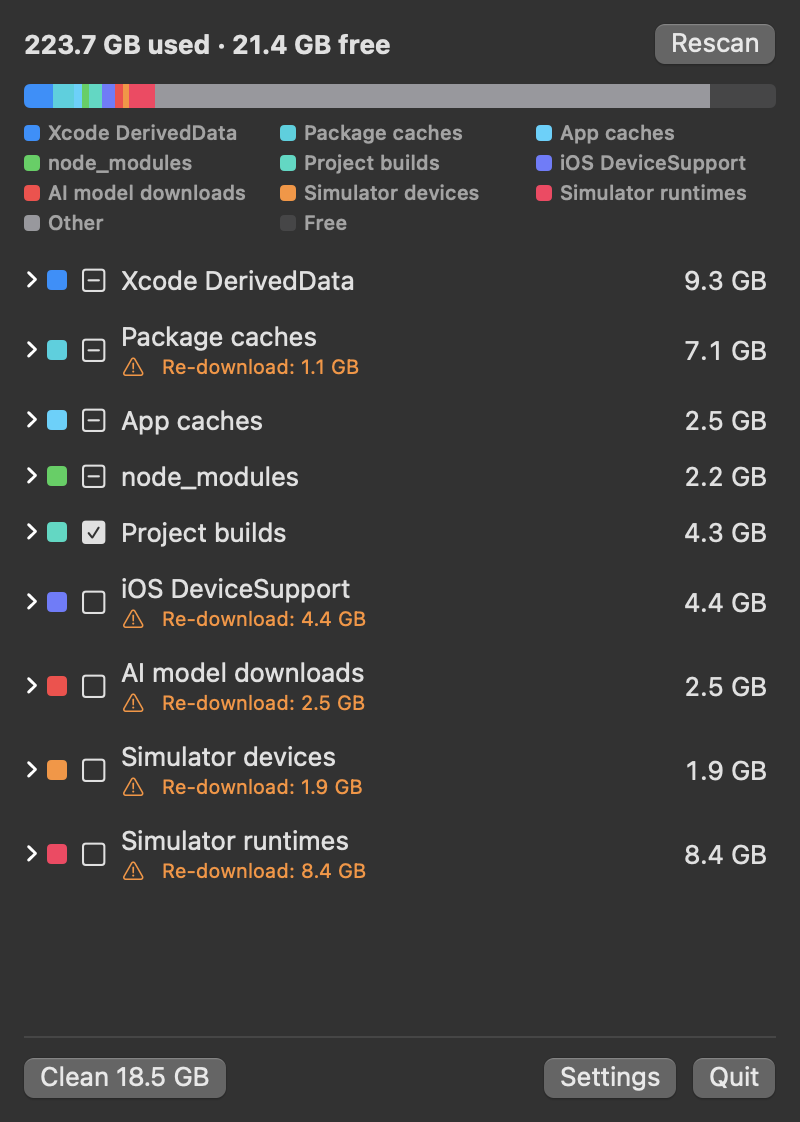
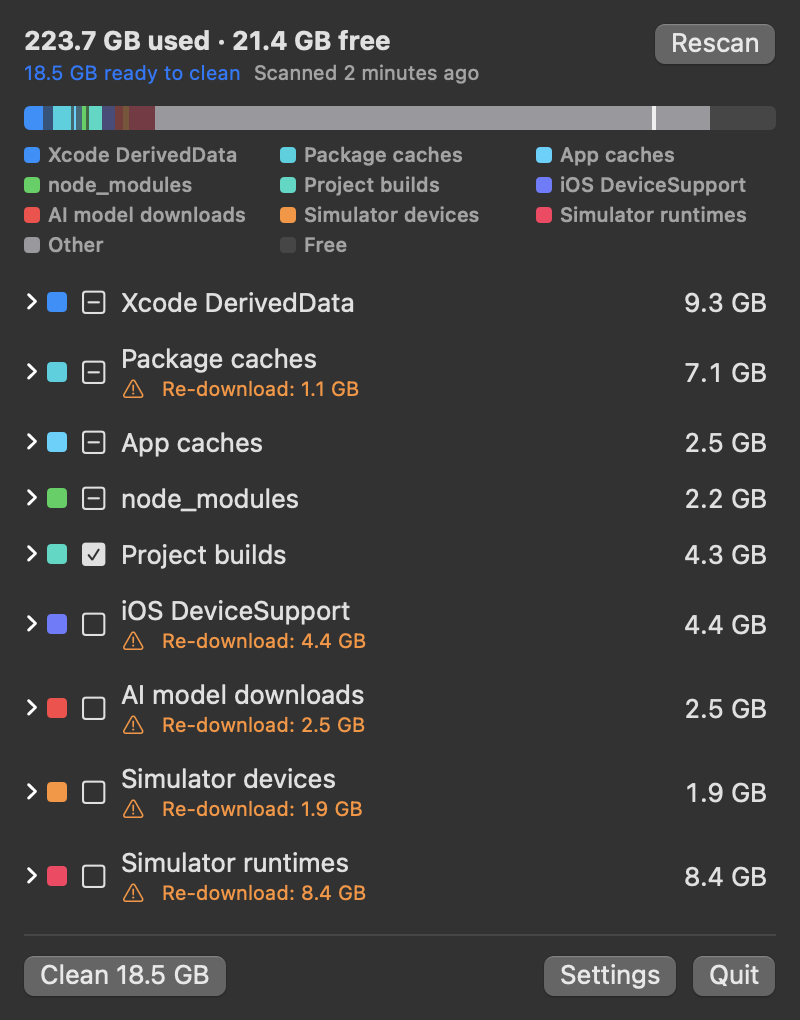
feat: fit-to-content panel, Reveal in Finder, last-scanned time, ready-to-clean bar, delete from Trash now

diff --git a/Sources/DevBroomCore/Cleaner.swift b/Sources/DevBroomCore/Cleaner.swift
@@ -9,6 +9,25 @@ public struct CleanReport: Sendable {
     public var trashedBytes: Int64 = 0
     public var deletedBytes: Int64 = 0
     public var failures: [(name: String, reason: String)] = []
+    /// Where each trashed item ended up, so "Delete from Trash now" removes exactly these and nothing else.
+    public var trashedItems: [(url: URL, bytes: Int64)] = []
+    public init() {}
+}
+
+/// Permanently deletes items DevBroom itself moved to the Trash. Anything not directly inside a Trash folder
+/// (`~/.Trash/x` or `/Volumes/V/.Trashes/<uid>/x`) is refused.
+public func deleteFromTrash(_ items: [(url: URL, bytes: Int64)]) -> (bytes: Int64, failures: [String]) {
+    var bytes: Int64 = 0, failures: [String] = []
+    for (url, size) in items {
+        let parent = url.standardizedFileURL.deletingLastPathComponent()
+        guard parent.lastPathComponent == ".Trash" || parent.deletingLastPathComponent().lastPathComponent == ".Trashes" else {
+            failures.append("\(url.lastPathComponent): not in the Trash"); continue
+        }
+        guard FileManager.default.fileExists(atPath: url.path) else { continue }  // already emptied
+        do { try FileManager.default.removeItem(at: url); bytes += size }
+        catch { failures.append("\(url.lastPathComponent): \(error.localizedDescription)") }
+    }
+    return (bytes, failures)
 }
 
 /// The only code that removes anything: Trash for files (guard-checked), vendor tools for permanent deletes.
@@ -16,18 +35,24 @@ public struct Cleaner: Sendable {
     private let removalGuard: RemovalGuard
     private let runner: CommandRunner
     private let home: URL
-    private let trash: @Sendable (URL) throws -> Void
+    /// Moves an item to the Trash and returns where it ended up (nil if unknown).
+    private let trash: @Sendable (URL) throws -> URL?
 
     public init(removalGuard: RemovalGuard, runner: CommandRunner, home: URL,
-                trash: @escaping @Sendable (URL) throws -> Void = { try FileManager.default.trashItem(at: $0, resultingItemURL: nil) }) {
+                trash: @escaping @Sendable (URL) throws -> URL? = { url in
+                    var out: NSURL?
+                    try FileManager.default.trashItem(at: url, resultingItemURL: &out)
+                    return out as URL?
+                }) {
         self.removalGuard = removalGuard; self.runner = runner; self.home = home; self.trash = trash
     }
 
     public func clean(_ items: [CleanItem], progress: (Int, Int) -> Void) async -> CleanReport {
         var report = CleanReport()
         for (i, item) in items.enumerated() {
-            let outcome = await remove(item)
+            let (outcome, landed) = await remove(item)
             report.outcomes[item.id] = outcome
+            if let landed { report.trashedItems.append((landed, item.sizeBytes)) }
             switch outcome {
             case .trashed(let b): report.trashedBytes += b
             case .deleted(let b): report.deletedBytes += b
@@ -39,20 +64,21 @@ public struct Cleaner: Sendable {
         return report
     }
 
-    private func remove(_ item: CleanItem) async -> ItemOutcome {
+    /// The outcome, plus where a trashed item ended up.
+    private func remove(_ item: CleanItem) async -> (ItemOutcome, URL?) {
         switch item.method {
         case .trash(let url):
-            guard FileManager.default.fileExists(atPath: url.path) else { return .alreadyGone }
-            guard removalGuard.allows(url) else { return .failed("Refused by safety guard") }
-            do { try trash(url); return .trashed(bytes: item.sizeBytes) }
-            catch { return .failed(error.localizedDescription) }
+            guard FileManager.default.fileExists(atPath: url.path) else { return (.alreadyGone, nil) }
+            guard removalGuard.allows(url) else { return (.failed("Refused by safety guard"), nil) }
+            do { return (.trashed(bytes: item.sizeBytes), try trash(url)) }
+            catch { return (.failed(error.localizedDescription), nil) }
         case .simctlDevice(let udid):
-            return await run(ToolLocator.xcrun, ["simctl", "delete", udid], item)
+            return (await run(ToolLocator.xcrun, ["simctl", "delete", udid], item), nil)
         case .simctlRuntime(let id):
-            return await run(ToolLocator.xcrun, ["simctl", "runtime", "delete", id], item)
+            return (await run(ToolLocator.xcrun, ["simctl", "runtime", "delete", id], item), nil)
         case .dockerPrune:
-            guard let docker = ToolLocator.docker(home: home) else { return .failed("Docker not found") }
-            return await run(docker, ["system", "prune", "-a", "-f"], item)
+            guard let docker = ToolLocator.docker(home: home) else { return (.failed("Docker not found"), nil) }
+            return (await run(docker, ["system", "prune", "-a", "-f"], item), nil)
         }
     }
 

diff --git a/Sources/DevBroom/PopoverView.swift b/Sources/DevBroom/PopoverView.swift
@@ -25,6 +25,8 @@ struct PopoverView: View {
     let model: AppModel
     /// Snapshot taken when the summary opens (spec section 4 rule 4): exactly these items are shown and cleaned.
     @State private var cleanSheet: (items: [CleanItem], recent: [String])?
+    /// Height of the category list's content, so the panel fits it (up to a maximum) instead of a fixed size.
+    @State private var listHeight: CGFloat = 0
 
     var body: some View {
         // VStack, not Group: Group would forward onAppear/onDisappear to each swapped child.
@@ -53,8 +55,9 @@ struct PopoverView: View {
                 VStack(alignment: .leading, spacing: 4) {
                     ForEach(model.results) { CategoryRow(model: model, category: $0) }
                 }
+                .onGeometryChange(for: CGFloat.self) { $0.size.height } action: { listHeight = $0 }
             }
-            .frame(height: 380)
+            .frame(height: min(max(listHeight, 40), 420))
             Divider()
             HStack {
                 Button("Clean \(bytes(model.selectedBytes))") {
@@ -74,13 +77,34 @@ struct PopoverView: View {
     }
 
     private var header: some View {
-        HStack {
-            if let free = model.freeBytes, let total = model.totalBytes {
-                Text("\(bytes(total - free)) used · \(bytes(free)) free").font(.headline)
+        HStack(alignment: .top) {
+            VStack(alignment: .leading, spacing: 2) {
+                if let free = model.freeBytes, let total = model.totalBytes {
+                    Text("\(bytes(total - free)) used · \(bytes(free)) free").font(.headline)
+                }
+                HStack(spacing: 6) {
+                    if model.selectedBytes > 0 {
+                        Text("\(bytes(model.selectedBytes)) ready to clean").foregroundStyle(.tint)
+                    }
+                    scannedText
+                }
+                .font(.caption)
             }
             Spacer()
             if model.isScanning { ProgressView().controlSize(.small) }
             Button("Rescan") { model.rescan() }.disabled(model.isScanning)
+        }
+    }
+
+    @ViewBuilder private var scannedText: some View {
+        if model.isScanning {
+            Text("Scanning…").foregroundStyle(.secondary)
+        } else if let date = model.lastScanned {
+            TimelineView(.periodic(from: .now, by: 60)) { context in
+                Text("Scanned " + (date > context.date.addingTimeInterval(-60) ? "just now"
+                    : RelativeDateTimeFormatter().localizedString(for: date, relativeTo: context.date)))
+                    .foregroundStyle(.secondary)
+            }
         }
     }
 }
@@ -95,10 +119,21 @@ private struct StorageBar: View {
         let other = max(total - free - Double(cats.reduce(0) { $0 + $1.sizeBytes }), 0)
         VStack(alignment: .leading, spacing: 6) {
             GeometryReader { g in
+                // Ticked part of each category solid, the rest faded; the line marks where free space ends after cleaning.
                 HStack(spacing: 0) {
-                    ForEach(cats) { c in c.id.color.frame(width: g.size.width * Double(c.sizeBytes) / total) }
+                    ForEach(cats) { c in
+                        let on = Double(c.items.filter { model.selected.contains($0.id) }.reduce(0) { $0 + $1.sizeBytes })
+                        c.id.color.frame(width: g.size.width * on / total)
+                        c.id.color.opacity(0.35).frame(width: g.size.width * (Double(c.sizeBytes) - on) / total)
+                    }
                     Color.gray.frame(width: g.size.width * other / total)
                     Color.gray.opacity(0.2)
+                }
+                .overlay(alignment: .leading) {
+                    if model.selectedBytes > 0 {
+                        Rectangle().fill(.primary).frame(width: 2)
+                            .offset(x: g.size.width * max(total - free - Double(model.selectedBytes), 0) / total - 1)
+                    }
                 }
             }
             .frame(height: 12)
@@ -178,6 +213,11 @@ private struct ItemRow: View {
             .toggleStyle(.checkbox)
             Spacer()
             Text(bytes(item.sizeBytes)).monospacedDigit().foregroundStyle(.secondary)
+        }
+        .contextMenu {
+            if case .trash(let url) = item.method {
+                Button("Reveal in Finder") { NSWorkspace.shared.activateFileViewerSelecting([url]) }
+            }
         }
     }
 

diff --git a/Sources/DevBroom/CleanSheet.swift b/Sources/DevBroom/CleanSheet.swift
@@ -9,6 +9,7 @@ struct CleanSheet: View {
     let dismiss: () -> Void
 
     @State private var understood = false
+    @State private var confirmPurge = false
 
     var body: some View {
         let trash = items.filter { !$0.method.isPermanent }
@@ -16,7 +17,8 @@ struct CleanSheet: View {
         VStack(alignment: .leading, spacing: 10) {
             if let report = model.lastReport {
                 result(report)
-                Button("Done") { model.lastReport = nil; dismiss() }.keyboardShortcut(.defaultAction)
+                purge(report)
+                Button("Done") { model.lastReport = nil; model.trashPurge = nil; dismiss() }.keyboardShortcut(.defaultAction)
             } else if model.isCleaning {
                 let p = model.cleanProgress ?? (0, items.count)
                 ProgressView("Cleaning \(p.done) of \(p.total)", value: Double(p.done), total: Double(max(p.total, 1)))
@@ -47,6 +49,7 @@ struct CleanSheet: View {
                 }
             }
         }
+        .frame(maxWidth: .infinity, alignment: .leading)
     }
 
     private func section(_ title: String, _ items: [CleanItem], color: Color) -> some View {
@@ -73,8 +76,31 @@ struct CleanSheet: View {
         .foregroundStyle(color)
     }
 
+    /// "Delete from Trash now": only the items this clean moved, after a second confirmation.
+    @ViewBuilder private func purge(_ r: CleanReport) -> some View {
+        let size = r.trashedItems.reduce(0) { $0 + $1.bytes }
+        if let p = model.trashPurge {
+            Text("Deleted \(bytes(p.bytes)) from the Trash").foregroundStyle(.green)
+            ForEach(p.failures, id: \.self) { Text($0).font(.caption).foregroundStyle(.red) }
+        } else if !r.trashedItems.isEmpty {
+            if confirmPurge {
+                Text("This permanently deletes only what DevBroom just moved to the Trash. It can't be undone.")
+                    .font(.caption).foregroundStyle(.red)
+                HStack {
+                    Button("Cancel") { confirmPurge = false }
+                    Button("Delete \(bytes(size)) permanently", role: .destructive) { model.deleteTrashed() }
+                        .disabled(model.isPurging)
+                }
+            } else {
+                Button("Delete \(bytes(size)) from Trash now") { confirmPurge = true }
+            }
+        }
+    }
+
     @ViewBuilder private func result(_ r: CleanReport) -> some View {
-        Text("Moved \(bytes(r.trashedBytes)) to Trash · Deleted \(bytes(r.deletedBytes)) permanently")
+        let parts = [r.trashedBytes > 0 ? "Moved \(bytes(r.trashedBytes)) to the Trash" : nil,
+                     r.deletedBytes > 0 ? "Deleted \(bytes(r.deletedBytes)) permanently" : nil].compactMap { $0 }
+        Text(parts.isEmpty ? "Nothing was removed" : parts.joined(separator: " · ")).font(.headline)
         if case .deleted = r.outcomes["docker"] {
             Text("Docker: space returns within a few minutes").font(.caption).foregroundStyle(.secondary)
         }

diff --git a/Sources/DevBroom/AppModel.swift b/Sources/DevBroom/AppModel.swift
@@ -29,6 +29,11 @@ let isBundled = Bundle.main.bundleIdentifier != nil
     var isCleaning = false
     /// Shown until the owner dismisses it, even across popover reopenings.
     var lastReport: CleanReport?
+    /// Result of "Delete from Trash now" for `lastReport`.
+    var trashPurge: (bytes: Int64, failures: [String])?
+    var isPurging = false
+    /// When the last full scan finished (kept across launches).
+    var lastScanned: Date? = UserDefaults.standard.object(forKey: "lastScanned") as? Date
 
     @ObservationIgnored private(set) var isOpen = false
     @ObservationIgnored private var touched: Set<String> = []
@@ -60,6 +65,7 @@ let isBundled = Bundle.main.bundleIdentifier != nil
         self.results = results
         self.freeBytes = freeBytes
         self.totalBytes = totalBytes
+        lastScanned = Date().addingTimeInterval(-120)
         selected = Set(results.flatMap(\.items)
             .filter { defaultTicked($0, now: Date(), cutoffDays: demoSettings.cutoffDays) }.map(\.id))
     }
@@ -115,7 +121,11 @@ let isBundled = Bundle.main.bundleIdentifier != nil
                     }
                 }
             }
-            if !Task.isCancelled { isScanning = false }
+            if !Task.isCancelled {
+                isScanning = false
+                lastScanned = Date()
+                if !isDemo { UserDefaults.standard.set(lastScanned, forKey: "lastScanned") }
+            }
         }
     }
 
@@ -208,6 +218,7 @@ let isBundled = Bundle.main.bundleIdentifier != nil
         guard !isCleaning else { return }
         isCleaning = true
         lastReport = nil
+        trashPurge = nil
         cleanProgress = (0, items.count)
         let cleaner = Cleaner(removalGuard: RemovalGuard(locations: Locations(home: home), scanRoots: settings.scanRoots),
                               runner: ProcessRunner(), home: home)
@@ -221,6 +232,18 @@ let isBundled = Bundle.main.bundleIdentifier != nil
             isCleaning = false
             refreshFreeSpace()
             if isOpen { rescan() }  // no background scanning (spec section 4)
+        }
+    }
+
+    /// Permanently deletes exactly what the last clean moved to the Trash (owner confirmed in the sheet).
+    func deleteTrashed() {
+        guard let items = lastReport?.trashedItems, !items.isEmpty, trashPurge == nil, !isPurging else { return }
+        isPurging = true
+        Task {
+            let result = await Task.detached { deleteFromTrash(items) }.value
+            trashPurge = result
+            isPurging = false
+            refreshFreeSpace()
         }
     }
 }

diff --git a/Tests/DevBroomCoreTests/CleanerTests.swift b/Tests/DevBroomCoreTests/CleanerTests.swift
@@ -19,11 +19,13 @@ fileprivate final class TrashSpy: @unchecked Sendable {
     var failFirst = false
     let bin: URL
     init(bin: URL) { self.bin = bin }
-    func trash(_ u: URL) throws {
+    func trash(_ u: URL) throws -> URL? {
         let n = lock.withLock { count += 1; return count }
         if failFirst && n == 1 { throw CocoaError(.fileWriteNoPermission) }
         try FileManager.default.createDirectory(at: bin, withIntermediateDirectories: true)
-        try FileManager.default.moveItem(at: u, to: bin.appending(path: UUID().uuidString))
+        let to = bin.appending(path: UUID().uuidString)
+        try FileManager.default.moveItem(at: u, to: to)
+        return to
     }
 }
 
@@ -60,6 +62,25 @@ private func cleanItem(_ id: String, _ method: RemovalMethod, bytes: Int64 = 100
         let r = await real.clean([cleanItem("a", .trash(d))]) { _, _ in }
         #expect(r.outcomes["a"] == .trashed(bytes: 100))
         #expect(!FileManager.default.fileExists(atPath: d.path))
+    }
+
+    @Test func deleteFromTrashRemovesOnlyWhatWasTrashed() async throws {
+        let a = try h.make("Library/Caches/com.a/f").deletingLastPathComponent()
+        let other = try h.make(".Trash/keep-me")  // something the owner trashed earlier
+        let r = await cleaner.clean([cleanItem("a", .trash(a), bytes: 50)]) { _, _ in }
+        #expect(r.trashedItems.count == 1)
+        let purge = deleteFromTrash(r.trashedItems)
+        #expect(purge.bytes == 50 && purge.failures.isEmpty)
+        #expect(!FileManager.default.fileExists(atPath: r.trashedItems[0].url.path))
+        #expect(FileManager.default.fileExists(atPath: other.path))
+        #expect(deleteFromTrash(r.trashedItems).bytes == 0)  // already gone: nothing counted, no failure
+    }
+
+    @Test func deleteFromTrashRefusesPathsOutsideTheTrash() throws {
+        let f = try h.make("Library/Caches/com.b/f")
+        let purge = deleteFromTrash([(f, 10)])
+        #expect(purge.bytes == 0 && purge.failures.count == 1)
+        #expect(FileManager.default.fileExists(atPath: f.path))
     }
 
     @Test func trashesPathWithSpaces() async throws {

diff --git a/Sources/DevBroom/Screenshots.swift b/Sources/DevBroom/Screenshots.swift
@@ -21,6 +21,12 @@ import SwiftUI
         render(CleanSheet(model: model, items: model.selectedItems, recentlyUnticked: [], dismiss: {}).padding(12),
                width: 424, to: dir.appending(path: "clean-summary.png"))
         render(SettingsView(settings: settings), width: 440, to: dir.appending(path: "settings.png"))
+        var report = CleanReport()
+        report.trashedBytes = model.selectedBytes
+        report.trashedItems = model.selectedItems.map { (URL(fileURLWithPath: "/Users/you/.Trash/\($0.name)"), $0.sizeBytes) }
+        model.lastReport = report
+        render(CleanSheet(model: model, items: [], recentlyUnticked: [], dismiss: {}).padding(12),
+               width: 424, to: dir.appending(path: "clean-done.png"))
         exit(0)
     }
 

diff --git a/README.md b/README.md
@@ -35,10 +35,15 @@ Built for small-disk Macs (it started on a 256 GB MacBook Air) where clearing ca
 
 ## Screenshots
 
-| Scan results | Clean summary | Settings |
-|---|---|---|
-| <img src="docs/assets/popover.png" alt="Popover with categories" width="260"> | <img src="docs/assets/clean-summary.png" alt="Clean summary before confirming" width="260"> | <img src="docs/assets/settings.png" alt="Settings window" width="260"> |
-| Storage bar, categories and sizes. Open a row to tick single items. | Everything that will happen, before anything happens. | Recently-used window, low-space alert, project folders. |
+| Scan results | Clean summary |
+|---|---|
+| <img src="docs/assets/popover.png" alt="Popover with categories" width="300"> | <img src="docs/assets/clean-summary.png" alt="Clean summary before confirming" width="300"> |
+| How much is ready to clean, and where free space will end up (the white line). Right-click an item to reveal it in Finder. | Everything that will happen, before anything happens. |
+
+| After cleaning | Settings |
+|---|---|
+| <img src="docs/assets/clean-done.png" alt="Result with Delete from Trash now" width="300"> | <img src="docs/assets/settings.png" alt="Settings window" width="300"> |
+| Get the space back straight away: delete only what DevBroom just moved from the Trash. | Recently-used window, low-space alert, project folders. |
 
 ## What it cleans
 
@@ -82,7 +87,8 @@ Anything moved to the Trash can be put back until you empty the Trash. The few p
 1. **Click the menu bar icon.** The last results appear at once, then each row refreshes as the new scan finishes.
 2. **Pick what to clear.** Old, rebuildable items are already ticked. Open any row to tick or untick single items.
 3. **Press Clean.** A summary lists what moves to the Trash and what gets deleted permanently, with sizes.
-4. **Confirm.** DevBroom works through the list, skips anything that fails, and tells you how much space came back.
+4. **Confirm.** DevBroom works through the list, skips anything that fails, and tells you what it moved.
+5. **Get the space back.** Press **Delete from Trash now** to permanently delete only what DevBroom just moved (it asks once more). Anything else in your Trash is left alone. Or keep it in the Trash and decide later.
 
 Closing the panel stops the scan straight away. Rows that didn't finish keep their old numbers and say "not updated".
 
@@ -139,7 +145,7 @@ Open the panel and click **Settings**.
 ## FAQ
 
 **I cleaned, but my free space didn't change.**
-Items moved to the Trash still take space until you empty the Trash. Docker can also take a few minutes to hand space back after a prune.
+Items moved to the Trash still take space until you empty the Trash. After a clean, press **Delete from Trash now** to delete just those items. Docker can also take a few minutes to hand space back after a prune.
 
 **Why are some items unticked?**
 They were used recently, they need a re-download, or their app is running. You can still tick them yourself.
